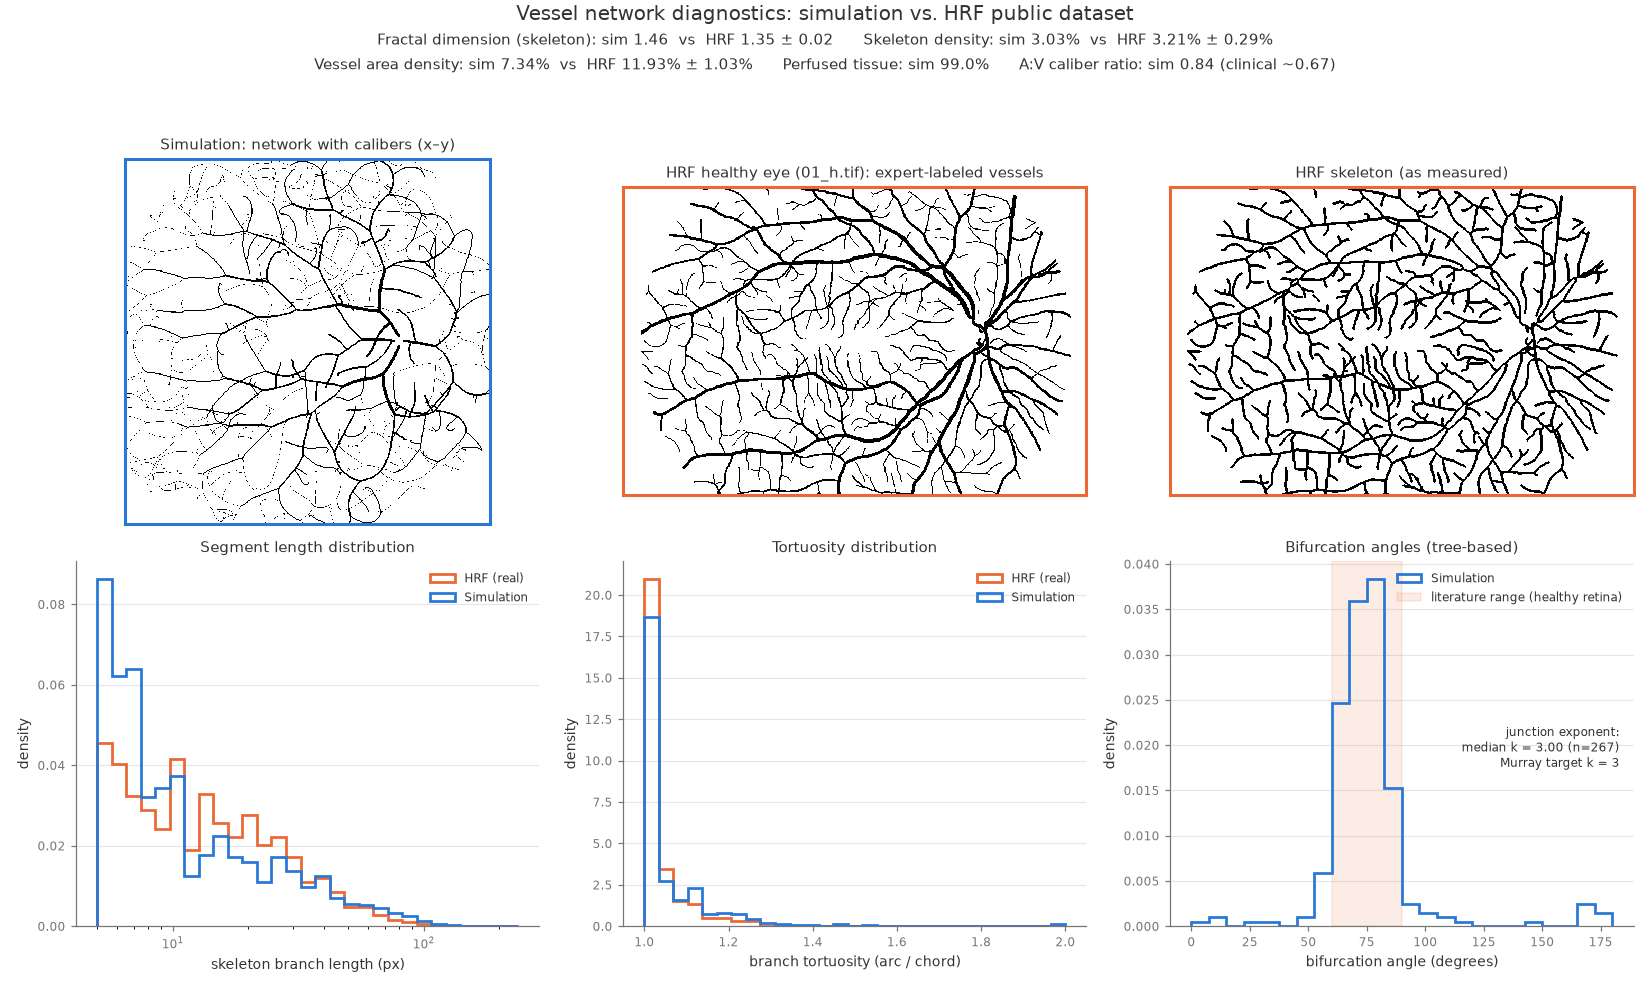
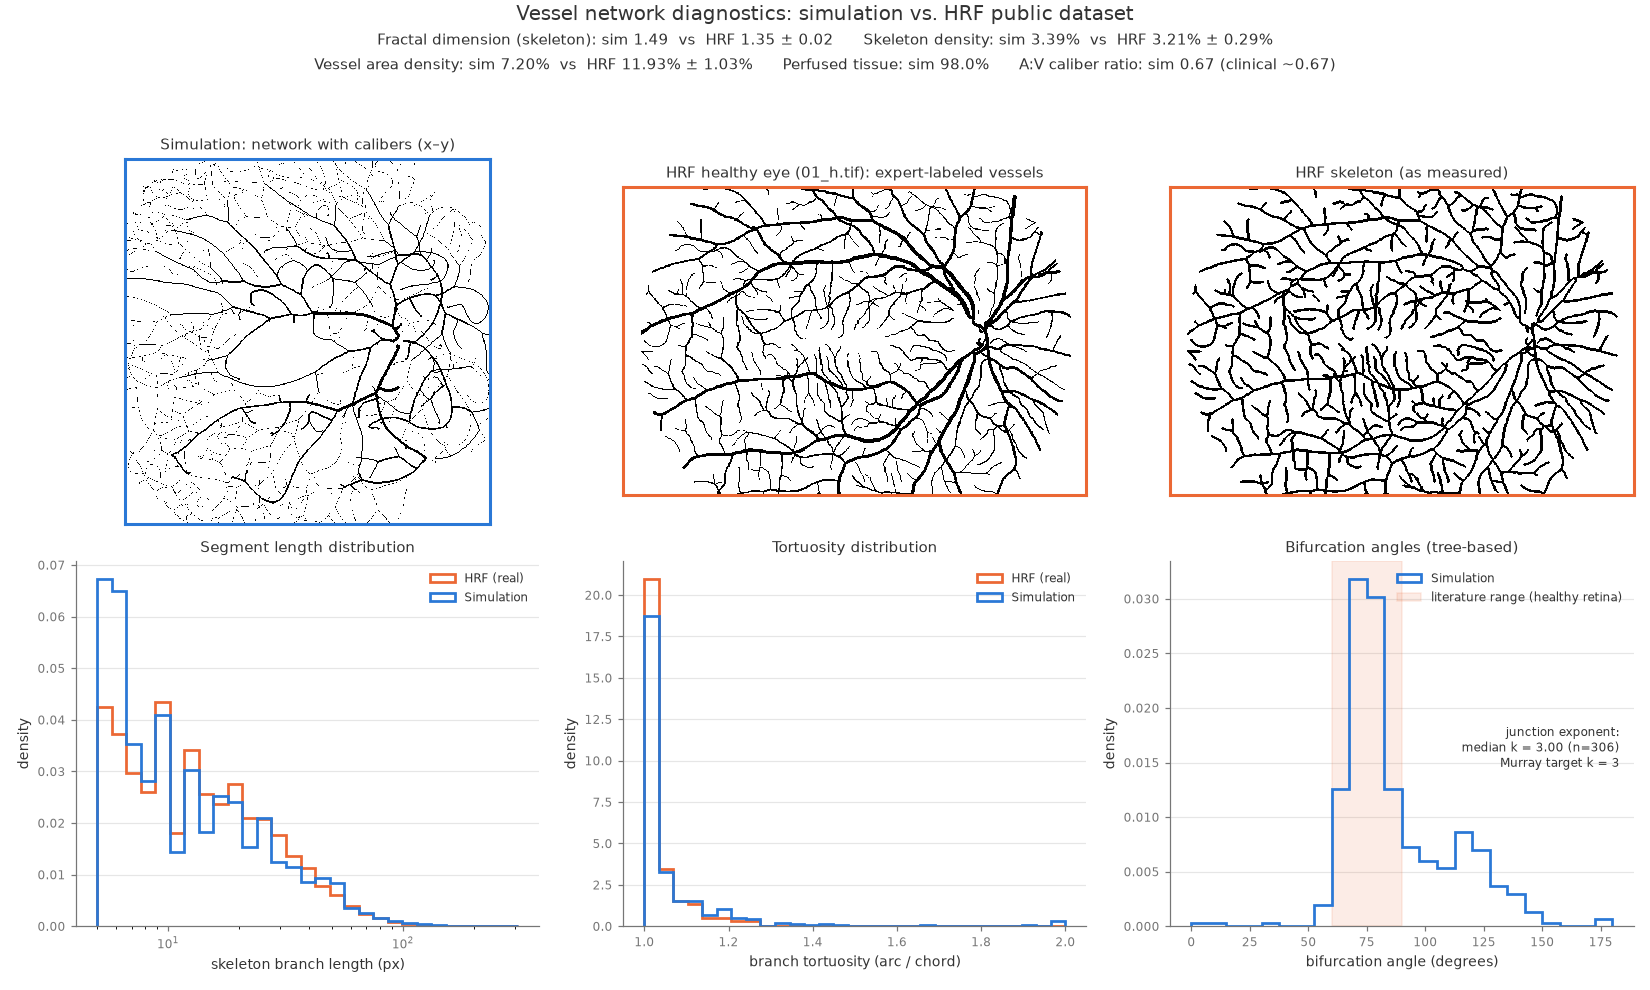
Add caliber-dependent branching cadence (realism roadmap idea 1b)
PathSplitter now scales each tip's split probability by
(min_radius / radius) ** caliber_cadence_exponent, so wide trunks run
long between branch points while capillary-caliber twigs branch at the
full split_probability -- matching the roughly constant
length-to-diameter ratio of real vessel segments. The spec pairs
exponent 0.6 with a faster base cadence (split_interval 15, was 30).

Targets the segment-length distribution, the clearest visual gap
against the HRF reference: at the standard 800-step run the KS distance
to the HRF log-length distribution fell from 0.099 to 0.053, the median
now matches HRF exactly (22 px), the over-tall shortest-length bin
dropped from 2.0x to 1.6x the HRF density, and skeleton density rose
from 3.03% to 3.39% (HRF: 3.21%). Side benefit: the arcade A:V caliber
ratio moved from 0.84 to the clinical 0.67.

Also adds a tree-based tree_segment_length metric to metrics.json --
inter-branch-point distances in simulation units, independent of
rasterization -- and regenerates docs/vnv in place.

Claude-Session: https://claude.ai/code/session_01U4Qk2Zw65JYjTrDCWeGrpE

diff --git a/tests/test_caliber_cadence.py b/tests/test_caliber_cadence.py
@@ -1,0 +1,119 @@
+"""Tests for caliber-dependent branching cadence (roadmap idea 1b)."""
+
+import copy
+
+import numpy as np
+import pandas as pd
+from vivarium import InteractiveContext
+
+from vivarium_eye_vessels.components.boundaries import EllipsoidContainment
+from vivarium_eye_vessels.components.particles import (
+    Particle3D,
+    PathFreezer,
+    PathSplitter,
+)
+from vivarium_eye_vessels.vnv import metrics, simulation
+
+CONFIGURATION = {
+    "randomness": {"random_seed": 42},
+    "time": {
+        "start": {"year": 2025, "month": 1, "day": 1},
+        "end": {"year": 2025, "month": 6, "day": 1},
+        "step_size": 0.05,
+    },
+    "population": {"population_size": 300},
+    "particles": {
+        "overall_max_velocity_change": 0.2,
+        "initial_velocity_range": [-0.2, 0.2],
+        "terminal_velocity": 0.15,
+        "initial_circle": {"center": [1.0, 0.0, 0.0], "radius": 0.05, "n_vessels": 4},
+        "root_radius": 0.02,
+    },
+    "path_freezer": {"freeze_interval": 3, "radius_taper": 0.999},
+    "path_splitter": {
+        "split_interval": 20,
+        "split_angle": 60,
+        "split_probability": 0.9,
+        "max_depth": 4,
+        "murray_exponent": 3.0,
+        "flow_asymmetry": 0.15,
+        "min_radius": 0.002,
+        "caliber_cadence_exponent": 0.0,
+    },
+    "ellipsoid_containment": {
+        "a": 2,
+        "b": 2,
+        "c": 0.2,
+        "force_type": "hookean",
+        "spring_constant": 3,
+    },
+}
+
+
+def make_simulation(cadence_exponent: float) -> tuple[InteractiveContext, PathSplitter]:
+    config = copy.deepcopy(CONFIGURATION)
+    config["path_splitter"]["caliber_cadence_exponent"] = cadence_exponent
+    splitter = PathSplitter()
+    sim = InteractiveContext(
+        components=[Particle3D(), PathFreezer(), splitter, EllipsoidContainment()],
+        configuration=config,
+    )
+    return sim, splitter
+
+
+def test_zero_exponent_gives_uniform_probability():
+    _, splitter = make_simulation(0.0)
+    active = pd.DataFrame({"radius": [0.02, 0.005, 0.002, 0.0]}, index=[3, 5, 8, 13])
+    probabilities = splitter.split_probabilities(active)
+    assert list(probabilities.index) == [3, 5, 8, 13]
+    np.testing.assert_allclose(probabilities, 0.9)
+
+
+def test_probabilities_scale_with_caliber():
+    _, splitter = make_simulation(1.0)
+    active = pd.DataFrame({"radius": [0.002, 0.004, 0.02, 0.0, 0.001]}, index=[1, 2, 3, 4, 5])
+    probabilities = splitter.split_probabilities(active)
+
+    # Base probability applies at the min_radius caliber floor
+    np.testing.assert_allclose(probabilities[1], 0.9)
+    # Wider tips split less often: (min_radius / radius) ** exponent
+    np.testing.assert_allclose(probabilities[2], 0.45)
+    np.testing.assert_allclose(probabilities[3], 0.09)
+    # Uncalibered tips keep the base probability
+    np.testing.assert_allclose(probabilities[4], 0.9)
+    # Below the floor the factor exceeds 1 and is clipped to a valid probability
+    np.testing.assert_allclose(probabilities[5], 1.0)
+
+
+def test_cadence_lengthens_trunk_segments():
+    """Wide-caliber tips branching less often means longer tree segments.
+
+    Deterministic seeds make this an exact comparison, not a statistical one.
+    """
+
+    def median_segment_length(cadence_exponent: float) -> float:
+        sim, _ = make_simulation(cadence_exponent)
+        simulation.run_steps(sim, 250)
+        pop = sim.get_population(["x", "y", "z", "frozen", "path_id", "parent_id"])
+        assert pop.frozen.sum() > 100, "network failed to grow"
+        lengths = metrics.tree_segment_lengths(pop)
+        assert len(lengths) > 0
+        return float(np.median(lengths))
+
+    assert median_segment_length(1.5) > median_segment_length(0.0)
+
+
+def test_tree_segment_lengths_on_known_tree():
+    """A hand-built Y tree: trunk of two edges, then two single-edge daughters."""
+    pop = pd.DataFrame(
+        {
+            "x": [0.0, 1.0, 2.0, 2.0, 2.0],
+            "y": [0.0, 0.0, 0.0, 1.0, -3.0],
+            "z": [0.0, 0.0, 0.0, 0.0, 0.0],
+            "path_id": [0, 0, 0, 1, 2],
+            "parent_id": [-1, 0, 1, 2, 2],
+        },
+        index=[0, 1, 2, 3, 4],
+    )
+    lengths = metrics.tree_segment_lengths(pop)
+    np.testing.assert_allclose(sorted(lengths), [1.0, 2.0, 3.0])

diff --git a/src/vivarium_eye_vessels/components/particles.py b/src/vivarium_eye_vessels/components/particles.py
@@ -487,6 +487,10 @@ class PathSplitter(Component):
             "murray_exponent": 3.0,  # r_parent^k = r_major^k + r_minor^k
             "flow_asymmetry": 0.15,  # minor daughter flow fraction in [0.5 - this, 0.5]
             "min_radius": 0.002,  # caliber floor (capillary scale)
+            # Split probability scales as (min_radius / radius) ** this, so wide
+            # trunks run long between branch points while narrow twigs branch at
+            # the full split_probability; 0 restores caliber-independent cadence
+            "caliber_cadence_exponent": 0.0,
         }
     }
 
@@ -542,7 +546,7 @@ class PathSplitter(Component):
 
         if not active.empty:
             to_consider = self.randomness.filter_for_probability(
-                active.index, self.config.split_probability
+                active.index, self.split_probabilities(active)
             )
             not_too_deep = pop.loc[to_consider, "depth"] < self.config.max_depth
             to_split = to_consider[not_too_deep]
@@ -568,6 +572,28 @@ class PathSplitter(Component):
             all_updates = pd.concat(updates, axis=0)
 
             self.particles.update_particles(all_updates)
+
+    def split_probabilities(self, active: pd.DataFrame) -> pd.Series:
+        """Per-tip split probability, reduced for wide-caliber tips.
+
+        Real vessel segments keep a roughly constant length-to-diameter ratio,
+        so trunks run long between branch points while capillaries branch
+        densely. With ``caliber_cadence_exponent`` > 0, the configured
+        ``split_probability`` applies at the ``min_radius`` caliber floor and
+        wider tips split less often, scaled by
+        ``(min_radius / radius) ** caliber_cadence_exponent``. Uncalibered
+        tips (radius <= 0) keep the base probability.
+        """
+        base = float(self.config.split_probability)
+        exponent = float(self.config.caliber_cadence_exponent)
+        if exponent == 0.0:
+            return pd.Series(base, index=active.index)
+
+        radii = active.radius.to_numpy(dtype=float)
+        factors = np.ones(len(radii))
+        calibered = radii > 0
+        factors[calibered] = (float(self.config.min_radius) / radii[calibered]) ** exponent
+        return pd.Series(np.clip(base * factors, 0.0, 1.0), index=active.index)
 
     def split_frozen(self, pop, to_split):
         available = pop[~pop.frozen & (pop.path_id < 0)]

diff --git a/src/vivarium_eye_vessels/vnv/metrics.py b/src/vivarium_eye_vessels/vnv/metrics.py
@@ -287,6 +287,42 @@ def junction_exponents(pop: pd.DataFrame) -> np.ndarray:
     return np.array(exponents)
 
 
+def tree_segment_lengths(pop: pd.DataFrame) -> np.ndarray:
+    """Arc lengths of vessel segments between consecutive branch points.
+
+    A segment's lower end is a leaf or a branch point (a node with two or
+    more children of any kind, side branches included); its length
+    accumulates every tree edge walking up until the next branch point or
+    the root. Unlike the raster-based branch lengths, these are measured in
+    simulation units directly on the tree, independent of projection,
+    caliber, and raster resolution.
+    """
+    on_path = pop[pop.path_id >= 0]
+    members = on_path.index
+    parents = on_path.parent_id.where(on_path.parent_id.isin(members), -1)
+    child_counts = parents[parents >= 0].value_counts()
+    parent_map = parents.to_dict()
+    coords = {idx: row for idx, row in zip(members, on_path[["x", "y", "z"]].to_numpy(float))}
+
+    lengths = []
+    for start in members:
+        if child_counts.get(start, 0) == 1:
+            continue  # interior continuation node, not a segment's lower end
+        length = 0.0
+        node = start
+        while True:
+            parent = parent_map.get(node, -1)
+            if parent < 0:
+                break
+            length += float(np.linalg.norm(coords[node] - coords[parent]))
+            node = parent
+            if child_counts.get(node, 0) >= 2:
+                break
+        if length > 0:
+            lengths.append(length)
+    return np.array(lengths)
+
+
 def path_tortuosity(pop: pd.DataFrame) -> np.ndarray:
     """Arc-length over chord-length for each root-to-leaf chain of a path.
 

diff --git a/src/vivarium_eye_vessels/vnv/compare.py b/src/vivarium_eye_vessels/vnv/compare.py
@@ -79,6 +79,7 @@ def run_comparison(model_spec: str, output_dir: Path, steps: int) -> dict:
     sim_image_metrics = metrics.image_metrics(sim_raster)
     sim_angles = metrics.bifurcation_angles(pop)
     sim_tortuosity_paths = metrics.path_tortuosity(pop)
+    sim_tree_segment_lengths = metrics.tree_segment_lengths(pop)
     sim_junction_exponents = metrics.junction_exponents(pop)
     sim_perfused_fraction = metrics.perfused_fraction(
         pop, semi_axes, site_spacing=0.1, perfusion_radius=0.15
@@ -270,6 +271,7 @@ def run_comparison(model_spec: str, output_dir: Path, steps: int) -> dict:
             "skeleton_density": sim_image_metrics["skeleton_density"],
             "area_density": sim_image_metrics["area_density"],
             "branch_length_px": metrics.summarize(sim_image_metrics["branch_length_px"]),
+            "tree_segment_length": metrics.summarize(sim_tree_segment_lengths),
             "branch_tortuosity": metrics.summarize(sim_image_metrics["branch_tortuosity"]),
             "path_tortuosity": metrics.summarize(sim_tortuosity_paths),
             "bifurcation_angle_deg": metrics.summarize(sim_angles),

diff --git a/docs/realism_roadmap.md b/docs/realism_roadmap.md
@@ -31,6 +31,35 @@ V&V harness gained two caliber metrics: *vessel area density* and the fitted
 `docs/vnv/`). Bifurcation angles now emerge from the radii and concentrate
 inside the 60–90° literature band.
 
+## 1b. Caliber-dependent branching cadence — IMPLEMENTED
+
+Real vessel segments keep a roughly constant length-to-diameter ratio: the
+arcade trunks run a long way between branch points while capillaries branch
+densely. The original splitter checked every tip on the same fixed cadence
+(`split_interval` × `split_probability`), so every segment came out about the
+same length — visible in the V&V segment-length histogram as an over-tall
+spike at the shortest lengths and a deficit through the middle of the
+distribution, which was the clearest visual difference from the HRF data.
+
+*As implemented*: `PathSplitter` scales each tip's split probability by
+`(min_radius / radius) ** caliber_cadence_exponent` — the configured
+`split_probability` applies in full at the capillary caliber floor, and wider
+tips split less often in proportion to their caliber (exponent 1 makes the
+expected inter-branch distance proportional to diameter, i.e. constant L/D;
+0 restores the old caliber-independent cadence). The exponent alone starves
+the network (delayed trunk splits compound into far fewer tips), so it is
+paired with a faster base cadence: the spec sets `caliber_cadence_exponent`
+0.6 with `split_interval` 15 (was 30), so twigs branch more densely than
+before while trunks branch less. At the standard 800-step run the
+Kolmogorov–Smirnov distance between the sim and HRF log segment-length
+distributions fell from 0.099 to 0.053, the median matches HRF exactly
+(22 px), the over-tall shortest-length bin dropped from 2.0× to 1.6× the
+HRF density, and skeleton density rose from 3.03% to 3.39% (HRF:
+3.21 ± 0.29%); as a side benefit the arcade A:V caliber ratio moved from
+0.84 to the clinical 0.67. A new tree-based `tree_segment_length` metric in
+`metrics.json` tracks inter-branch-point distances in simulation units,
+independent of rasterization.
+
 ## 2. Growth toward hypoxia (space colonization) — IMPLEMENTED
 
 Real angiogenesis is VEGF chemotaxis: tissue far from any vessel recruits

diff --git a/CHANGELOG.rst b/CHANGELOG.rst
@@ -1,3 +1,27 @@
+**v0.5.0 - 08/30/26**
+
+ - Caliber-dependent branching cadence (realism roadmap idea 1b)
+
+   - ``PathSplitter`` scales each tip's split probability by
+     ``(min_radius / radius) ** caliber_cadence_exponent``, so wide trunks
+     run long between branch points while capillary-caliber twigs branch at
+     the full ``split_probability`` (exponent 0 restores the old
+     caliber-independent cadence)
+   - ``model_spec.yaml`` pairs exponent 0.6 with a faster base cadence
+     (``split_interval`` 15, was 30) so twigs branch more densely while
+     trunks branch less
+   - Targets the segment-length distribution — the clearest visual gap
+     against the HRF reference: at 800 steps the KS distance to the HRF
+     log-length distribution fell from 0.099 to 0.053, the median matches
+     HRF exactly (22 px), the shortest-length spike dropped from 2.0x to
+     1.6x the HRF density, and skeleton density rose from 3.03% to 3.39%
+     (HRF: 3.21%)
+   - New tree-based ``tree_segment_length`` metric in ``metrics.json``:
+     inter-branch-point distances in simulation units, independent of
+     rasterization
+   - Side benefit: the arcade A:V caliber ratio moved from 0.84 to 0.67,
+     matching the clinical target
+
 **v0.4.0 - 08/30/26**
 
  - Paired arterial and venous trees (realism roadmap idea 3)
